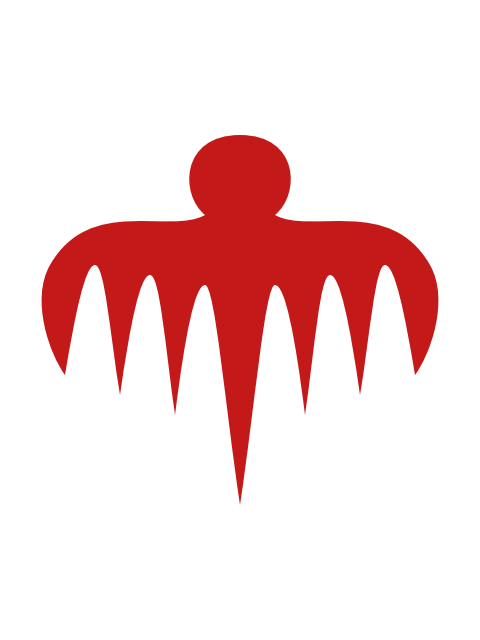
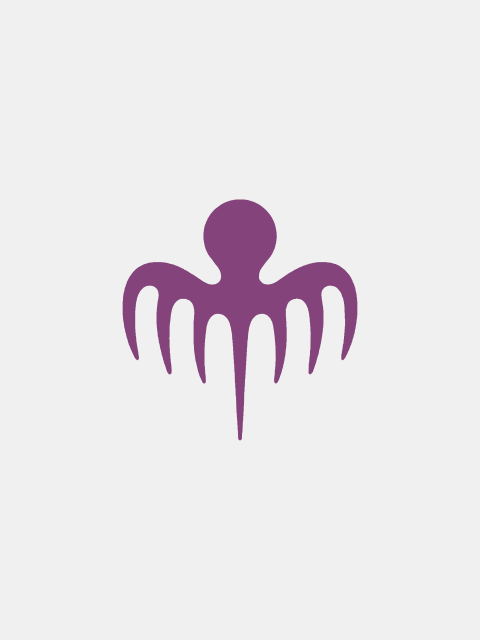
Add synthesize script; update Spectre sketch
Add examples/volume6/spectre/_resources/synthesize.py: a Python OpenCV utility that extracts a dense contour and average color from the source image, simplifies the contour with configurable epsilon (auto-selects largest epsilon meeting an IoU target), saves polygon parameters to JSON, and can reconstruct a synthetic image (supports WebP output).

Update examples/volume6/spectre/spectre.pde: bump metadata, introduce PAPER/INK/RADIUS constants, embed precomputed PX/PY vertex arrays, apply scaling/centering transform, switch drawing to a vertex loop (replacing many handcrafted bezier calls), and save the output. Also update the packaged spectre.png binary to match the changes.

Changed region(s): [[0.0625, 0.1875, 0.9375, 0.7812]]

diff --git a/examples/volume6/spectre/_resources/synthesize.py b/examples/volume6/spectre/_resources/synthesize.py
@@ -1,0 +1,153 @@
+import json
+import os
+import sys
+import cv2
+import numpy as np
+
+PARAMS_FILE = "spectre_params.json"
+IMAGE_FILE  = "007_Spectre_Purple.webp"
+OUTPUT_FILE = "spectre_synth.webp"
+
+
+def _estrai_contorno_e_colore(image_path):
+    """Carica immagine, estrae colore medio della forma e contorno denso."""
+    img = cv2.imread(image_path)
+    if img is None:
+        raise FileNotFoundError(f"Immagine non trovata: {image_path}")
+
+    rgb = cv2.cvtColor(img, cv2.COLOR_BGR2RGB)
+    h, w = img.shape[:2]
+
+    # Consideriamo sfondo i pixel quasi-bianchi.
+    mask_forma = ~((rgb[:, :, 0] > 220) & (rgb[:, :, 1] > 220) & (rgb[:, :, 2] > 220))
+    colore = np.rint(rgb[mask_forma].mean(axis=0)).astype(int).tolist()
+
+    gray = cv2.cvtColor(img, cv2.COLOR_BGR2GRAY)
+    gray = cv2.GaussianBlur(gray, (3, 3), 0)
+    _, thresh = cv2.threshold(gray, 200, 255, cv2.THRESH_BINARY_INV)
+
+    contours, _ = cv2.findContours(thresh, cv2.RETR_EXTERNAL, cv2.CHAIN_APPROX_NONE)
+    contorno_denso = max(contours, key=cv2.contourArea)
+    return w, h, colore, thresh, contorno_denso
+
+
+def _params_da_contorno(w, h, colore, contorno_denso, epsilon_rel):
+    """Costruisce i parametri spline applicando una semplificazione controllata."""
+    epsilon = epsilon_rel * cv2.arcLength(contorno_denso, True)
+    pts = cv2.approxPolyDP(contorno_denso, epsilon, True).reshape(-1, 2)
+
+    # Se la semplificazione è estrema, garantiamo almeno 4 punti.
+    if len(pts) < 4:
+        pts = contorno_denso.reshape(-1, 2)
+
+    dati = {
+        "width": w,
+        "height": h,
+        "color_rgb": colore,
+        "px": np.round(pts[:, 0], 1).tolist(),
+        "py": np.round(pts[:, 1], 1).tolist(),
+        "epsilon_rel": float(epsilon_rel),
+    }
+    return dati, len(contorno_denso), len(pts), epsilon
+
+
+def _mask_da_parametri(d, n_samples=3000):
+    """Renderizza una maschera binaria dai parametri (nuovo formato poligono)."""
+    w, h = d["width"], d["height"]
+    poly = np.column_stack([np.rint(d["px"]), np.rint(d["py"])]).astype(np.int32)
+    poly[:, 0] = np.clip(poly[:, 0], 0, w - 1)
+    poly[:, 1] = np.clip(poly[:, 1], 0, h - 1)
+
+    mask = np.zeros((h, w), dtype=np.uint8)
+    cv2.fillPoly(mask, [poly], 255)
+    return mask
+
+
+def _iou(mask_a, mask_b):
+    a = mask_a > 0
+    b = mask_b > 0
+    inter = np.logical_and(a, b).sum()
+    union = np.logical_or(a, b).sum()
+    return float(inter / union) if union else 1.0
+
+
+def estrai_e_salva(image_path, params_path, epsilon_rel=None, target_iou=0.995):
+    """
+    Estrae il modello matematico e lo salva in JSON.
+
+    Se epsilon_rel è None, sceglie automaticamente il valore più grande
+    che mantiene IoU >= target_iou rispetto alla maschera originale.
+    """
+    w, h, colore, thresh, contorno_denso = _estrai_contorno_e_colore(image_path)
+
+    if epsilon_rel is None:
+        # Dalla più compressa alla più fedele.
+        candidati = [0.010, 0.008, 0.006, 0.004, 0.003, 0.002, 0.0015, 0.001, 0.0007, 0.0005, 0.0003, 0.0002, 0.0001]
+        migliore = None
+        migliore_iou = -1.0
+
+        for eps in candidati:
+            d, n_dense, n_pts, epsilon = _params_da_contorno(w, h, colore, contorno_denso, eps)
+            iou = _iou(thresh, _mask_da_parametri(d))
+            print(f"Test eps={eps:.4f}: {n_dense}->{n_pts} punti, IoU={iou:.5f}")
+            if iou > migliore_iou:
+                migliore_iou = iou
+                migliore = (d, n_dense, n_pts, epsilon, iou)
+            if iou >= target_iou:
+                migliore = (d, n_dense, n_pts, epsilon, iou)
+                break
+
+        dati, n_dense, n_pts, epsilon, iou = migliore
+        print(f"Scelto eps={dati['epsilon_rel']:.4f} con IoU={iou:.5f}")
+    else:
+        dati, n_dense, n_pts, epsilon = _params_da_contorno(w, h, colore, contorno_denso, epsilon_rel)
+        iou = _iou(thresh, _mask_da_parametri(dati))
+        print(f"Uso eps={epsilon_rel:.4f}: IoU={iou:.5f}")
+
+    print(f"Punti contorno: {n_dense} -> {n_pts} (epsilon={epsilon:.1f}px)")
+
+    with open(params_path, "w") as f:
+        json.dump(dati, f, separators=(",", ":"))
+
+    size_kb = os.path.getsize(params_path) / 1024
+    print(f"Parametri salvati in: {params_path} ({len(dati['px'])} nodi, {size_kb:.1f} KB, IoU={iou:.5f})")
+    return dati
+
+
+def ricostruisci(params_path, output_path):
+    """Carica il JSON e ricostruisce l'immagine sintetizzata."""
+    with open(params_path) as f:
+        d = json.load(f)
+
+    mask = _mask_da_parametri(d)
+
+    h, w = d["height"], d["width"]
+    out = np.full((h, w, 3), 255, dtype=np.uint8)
+    colore_rgb = [int(round(v)) for v in d["color_rgb"]]
+    colore_bgr = (colore_rgb[2], colore_rgb[1], colore_rgb[0])
+    out[mask > 0] = colore_bgr
+
+    ext = os.path.splitext(output_path)[1].lower()
+    if ext == ".webp":
+        cv2.imwrite(output_path, out, [cv2.IMWRITE_WEBP_QUALITY, 100])
+    else:
+        cv2.imwrite(output_path, out)
+    print(f"Immagine ricostruita salvata in: {output_path}")
+
+
+if __name__ == "__main__":
+    # Uso: python synthesize.py [extract|reconstruct|both] [epsilon_rel|auto] [target_iou]
+    # Esempi:
+    #   python synthesize.py both auto 0.995   # qualità alta, dimensione minima automatica
+    #   python synthesize.py both 0.002        # epsilon manuale
+    mode = sys.argv[1] if len(sys.argv) > 1 else "both"
+
+    epsilon_arg = sys.argv[2] if len(sys.argv) > 2 else "auto"
+    target_iou = float(sys.argv[3]) if len(sys.argv) > 3 else 0.995
+    epsilon_rel = None if epsilon_arg == "auto" else float(epsilon_arg)
+
+    if mode in ("extract", "both"):
+        estrai_e_salva(IMAGE_FILE, PARAMS_FILE, epsilon_rel=epsilon_rel, target_iou=target_iou)
+
+    if mode in ("reconstruct", "both"):
+        ricostruisci(PARAMS_FILE, OUTPUT_FILE)
